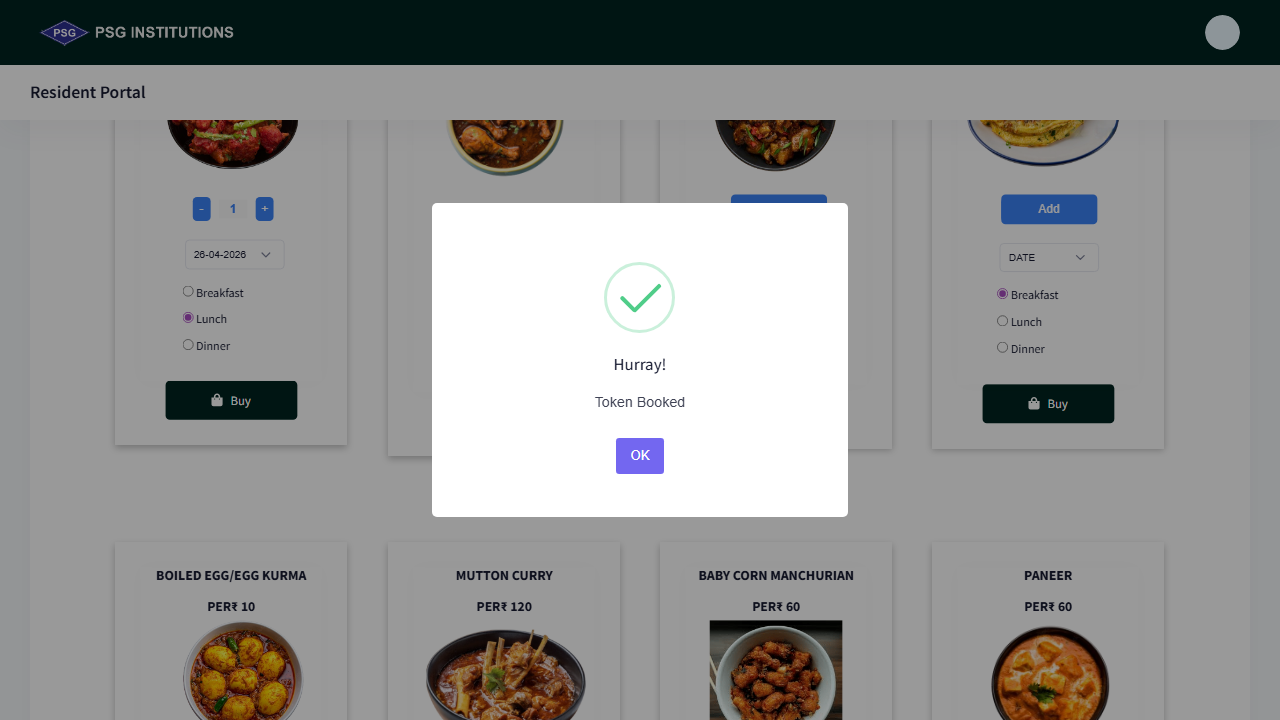
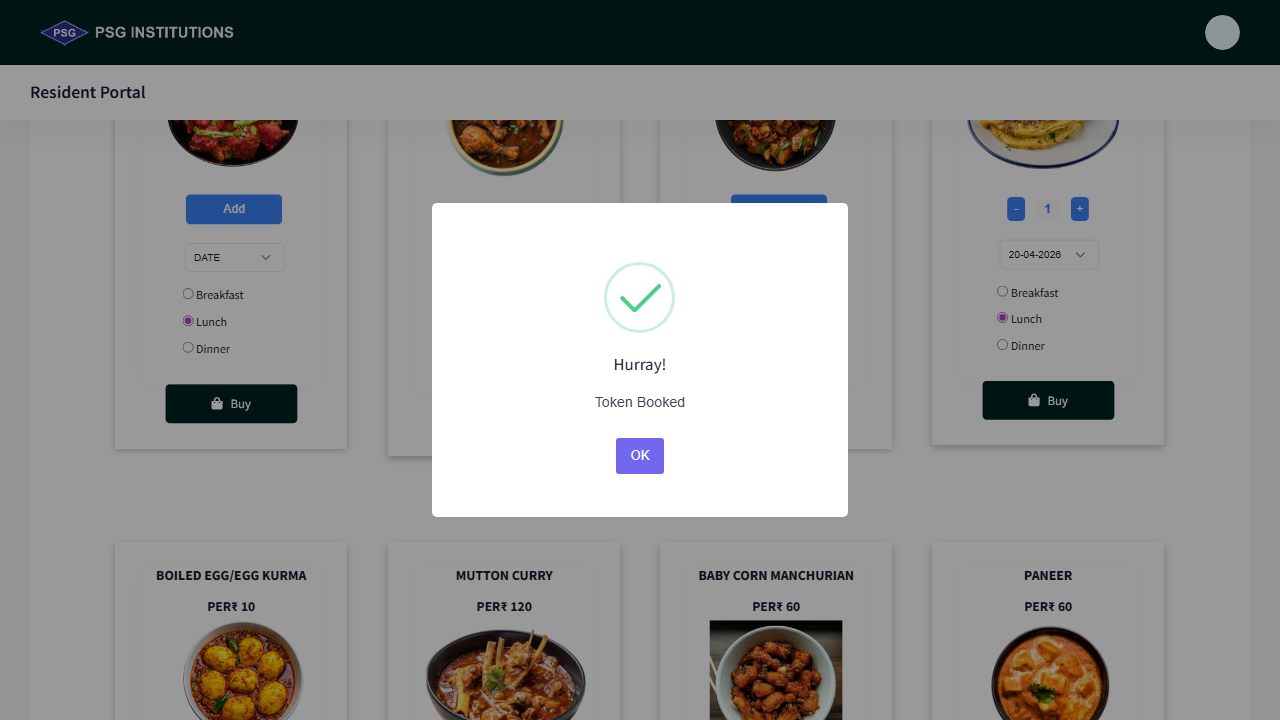
The stage 4(almostt perfect)

diff --git a/hostel_booker/templates/index.html b/hostel_booker/templates/index.html
@@ -771,11 +771,23 @@
         </div>
         <div class="form-group">
           <label for="password">Portal Password</label>
-          <input type="password" id="password" name="password" placeholder="Enter your portal password"
-            autocomplete="current-password" required />
+          <div style="position:relative;">
+            <input type="password" id="password" name="password" placeholder="Enter your portal password"
+              autocomplete="current-password" required
+              style="padding-right:44px;border-color:var(--border-hl);background:var(--bg-card2);" />
+            <button type="button" id="eyeBtn" onclick="togglePassword()"
+              style="position:absolute;right:10px;top:50%;transform:translateY(-50%);background:none;border:none;
+                     cursor:pointer;color:var(--text-muted);padding:4px;line-height:0;" aria-label="Toggle password">
+              <svg id="eyeIcon" xmlns="http://www.w3.org/2000/svg" width="20" height="20" viewBox="0 0 24 24"
+                fill="none" stroke="currentColor" stroke-width="2" stroke-linecap="round" stroke-linejoin="round">
+                <path d="M1 12s4-8 11-8 11 8 11 8-4 8-11 8-11-8-11-8z"/>
+                <circle cx="12" cy="12" r="3"/>
+              </svg>
+            </button>
+          </div>
         </div>
         <button type="submit" class="btn btn-primary" id="loginBtn">
-          <span id="loginBtnText">Sign In & Load Tokens</span>
+          <span id="loginBtnText">Sign In &amp; Load Tokens</span>
         </button>
       </form>
 
@@ -791,6 +803,20 @@
       btn.disabled = true;
       document.getElementById('loginBtnText').textContent = 'Signing in…';
     });
+    function togglePassword() {
+      const inp = document.getElementById('password');
+      const icon = document.getElementById('eyeIcon');
+      if (inp.type === 'password') {
+        inp.type = 'text';
+        icon.innerHTML = '<path d="M17.94 17.94A10.07 10.07 0 0 1 12 20c-7 0-11-8-11-8a18.45 18.45 0 0 1 5.06-5.94"/>'
+          + '<path d="M9.9 4.24A9.12 9.12 0 0 1 12 4c7 0 11 8 11 8a18.5 18.5 0 0 1-2.16 3.19"/>'
+          + '<line x1="1" y1="1" x2="23" y2="23"/>';
+      } else {
+        inp.type = 'password';
+        icon.innerHTML = '<path d="M1 12s4-8 11-8 11 8 11 8-4 8-11 8-11-8-11-8z"/>'
+          + '<circle cx="12" cy="12" r="3"/>';
+      }
+    }
   </script>
 
   {# ════════════════════════════════════════════════════════ DASHBOARD VIEW #}
@@ -1061,8 +1087,34 @@
 
         <!-- Booking progress section (hidden until booking starts) -->
         <div id="bookingSection" class="hidden mt-24">
-          <div class="section-title" style="margin-bottom:12px;">Booking in Progress</div>
 
+          <!-- Big can't-miss banner -->
+          <div id="bookingBanner" style="
+            background: linear-gradient(135deg, #00c896 0%, #00897b 50%, #004d40 100%);
+            border-radius: 16px;
+            padding: 28px 24px;
+            margin-bottom: 24px;
+            text-align: center;
+            box-shadow: 0 0 40px rgba(0,200,150,0.35);
+            animation: bannerPulse 2.4s ease-in-out infinite;
+          ">
+            <div style="font-size:1.5rem;font-weight:800;color:#fff;line-height:1.5;letter-spacing:-0.3px;">
+              🚀 Booking in progress in the background!
+            </div>
+            <div style="font-size:1rem;color:rgba(255,255,255,0.9);margin-top:10px;line-height:1.7;">
+              ✅ You can minimize this and go do your work —<br>
+              we'll book everything for you! 😊<br>
+              📱 Safe to switch apps or lock your screen
+            </div>
+          </div>
+          <style>
+            @keyframes bannerPulse {
+              0%, 100% { box-shadow: 0 0 40px rgba(0,200,150,0.35); }
+              50%       { box-shadow: 0 0 70px rgba(0,200,150,0.65); }
+            }
+          </style>
+
+          <div style="font-size:0.9rem;font-weight:600;color:var(--text-muted);margin-bottom:10px;">Progress</div>
           <div class="progress-wrap">
             <div class="progress-bar" id="progressBar"></div>
           </div>
@@ -1071,7 +1123,7 @@
             <span id="progressFrac">0 / {{ bookings | length }}</span>
           </div>
 
-          <div id="resultsList"></div>
+          <div id="resultsList" style="margin-top:16px;"></div>
         </div>
 
         <!-- Summary (hidden until done) -->
@@ -1143,8 +1195,43 @@
           try { obj = JSON.parse(jsonStr); } catch (e) { continue; }
 
           if (obj.done) {
-            // Final summary
-            document.getElementById('progressText').textContent = 'All done!';
+            // Final summary — show big animated celebration text
+            document.getElementById('bookingBanner').style.display = 'none';
+            document.getElementById('progressText').innerHTML = `
+              <span style="
+                display:block;
+                font-size:1.45rem;
+                font-weight:800;
+                letter-spacing:-0.3px;
+                line-height:1.5;
+                background: linear-gradient(90deg,
+                  #fff 0%, #00c896 30%, #fff 55%, #00c896 80%, #fff 100%);
+                background-size: 250% 250%;
+                -webkit-background-clip: text;
+                -webkit-text-fill-color: transparent;
+                background-clip: text;
+                animation: footerShimmer 2.5s ease-in-out infinite, donePopIn 0.5s cubic-bezier(.34,1.56,.64,1) both;
+              ">
+                🎉 All done!
+              </span>
+              <span style="
+                display:block;
+                font-size:0.95rem;
+                color:var(--text-muted);
+                margin-top:6px;
+                animation: donePopIn 0.6s 0.1s cubic-bezier(.34,1.56,.64,1) both;
+              ">
+                Go check your <strong style="color:var(--green-glow);">My Token</strong> page —
+                your QR codes are ready to scan at the counter! 🍽️
+              </span>
+            `;
+            // add keyframe if not already injected
+            if (!document.getElementById('doneKF')) {
+              const s = document.createElement('style');
+              s.id = 'doneKF';
+              s.textContent = '@keyframes donePopIn { from { opacity:0; transform:scale(0.7) translateY(10px); } to { opacity:1; transform:scale(1) translateY(0); } }';
+              document.head.appendChild(s);
+            }
             document.getElementById('summaryOk').textContent = obj.success;
             document.getElementById('summaryFail').textContent = obj.failed;
             document.getElementById('summarySection').classList.remove('hidden');
@@ -1197,6 +1284,35 @@
   </script>
 
   {% endif %}
+
+  <footer style="text-align:center;padding:24px 16px 32px;">
+    <style>
+      @keyframes footerShimmer {
+        0%   { background-position: 0% 50%; }
+        50%  { background-position: 100% 50%; }
+        100% { background-position: 0% 50%; }
+      }
+      .footer-credit {
+        display: inline-block;
+        font-size: 13px;
+        font-weight: 500;
+        letter-spacing: 1.4px;
+
+        background: linear-gradient(90deg,
+          rgba(255,255,255,0.25) 0%,
+          rgba(0,200,150,0.7)   35%,
+          rgba(255,255,255,0.55) 55%,
+          rgba(0,200,150,0.5)   80%,
+          rgba(255,255,255,0.25) 100%);
+        background-size: 250% 250%;
+        -webkit-background-clip: text;
+        -webkit-text-fill-color: transparent;
+        background-clip: text;
+        animation: footerShimmer 4s ease-in-out infinite;
+      }
+    </style>
+    <span class="footer-credit">made by Sriram R</span>
+  </footer>
 
 </body>
 